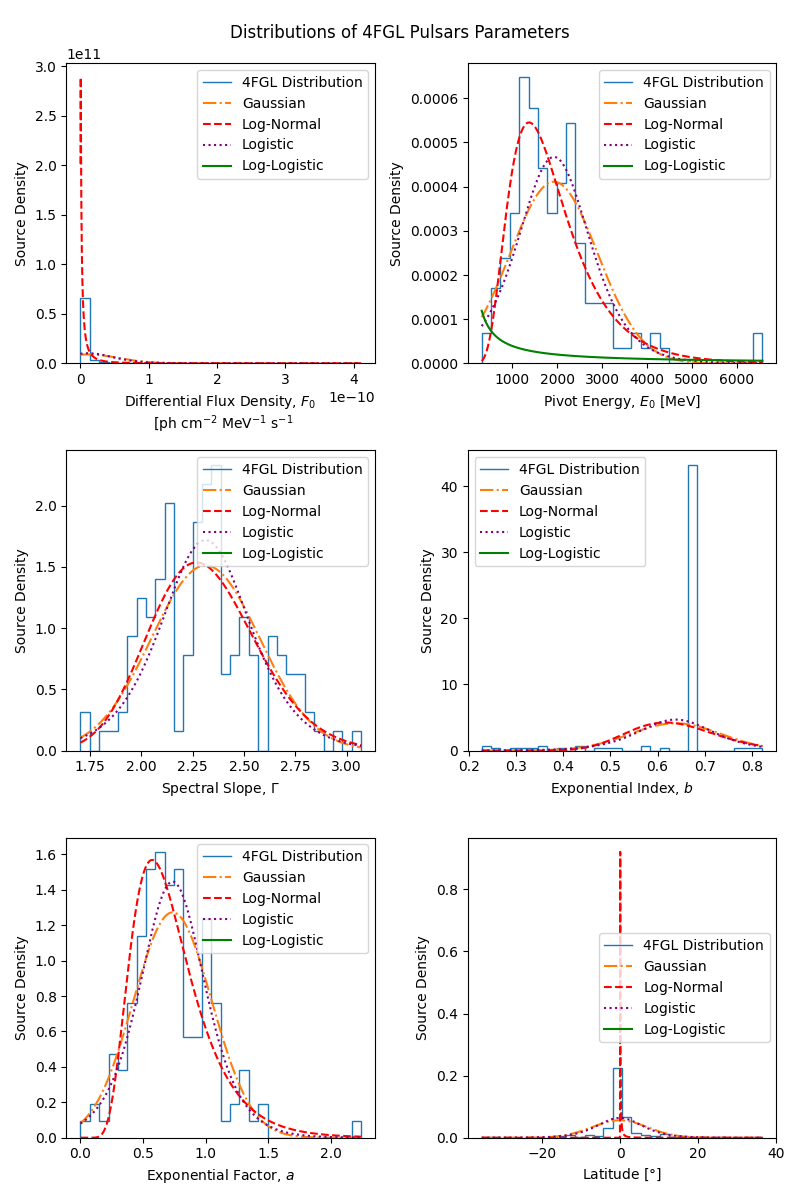
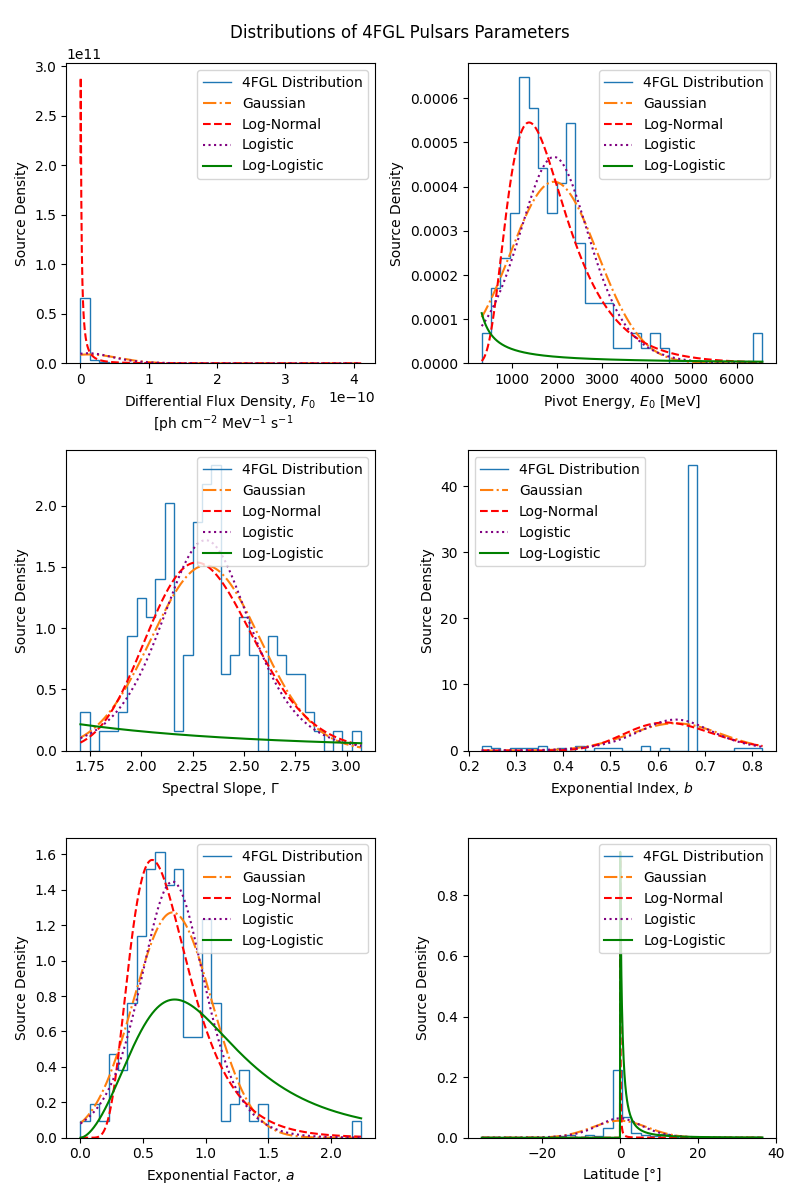
Working on spatial distribution plots - this will be used to debug the pulsar generation function (very important for the next stage of the project).

diff --git a/data_simulation/create_mock_catalog.py b/data_simulation/create_mock_catalog.py
@@ -35,35 +35,14 @@ from sklearn.metrics import root_mean_squared_error
 # Relative imports
 from analysis.goodness_of_fit import chi_squared_test, kolmogorov_smirnov_test
 from analysis.visualisation import (plot_agn_luminosity_function, plot_correlation_matrices,
-                                    plot_parameter_distributions, plot_parameter_relationships)
+                                    plot_parameter_distributions, plot_parameter_relationships,
+                                    plot_spatial_distribution)
 from read_write_functions import catalog_data_preparation
-from source_generation.agn_generator import agn_generation, generate_mock_agn_catalog
-from source_generation.agn_spectral_parameters import energy_flux_agn, agn_flux_density, agn_spectral_slope
+from source_generation.agn_generator import generate_mock_agn_catalog
 from source_generation.pulsar_spectral_parameters import energy_flux_pulsar
 from utils import split_normal
 
 # VISUALISATIONS
-
-
-# IN PROCESS OF MOVING INTO SEPARATE FILE
-def spatial_visualisations(galactic_longitudes, galactic_latitudes, num_sources, source_type):
-
-    xs, ys = [], []
-
-    for k in range(num_sources):
-
-        ra_dec = SkyCoord(l=galactic_longitudes[k] * u.rad, b=galactic_latitudes[k] * u.rad,
-                          frame='galactic').transform_to('icrs')
-
-        xs.append(ra_dec.ra.to_value(u.degree))
-        ys.append(ra_dec.dec.to_value(u.degree))
-
-    fig, ax = plt.subplots(figsize=(8, 4.2), subplot_kw=dict(projection="aitoff"))
-    ax.set_title("Distribution of Simulated " + source_type + " on the Sky", pad=20)
-    ax.grid(True)
-    ax.scatter(xs, ys, marker='o', s=2, alpha=0.3)
-    fig.subplots_adjust(top=0.95, bottom=0.0)
-    plt.show()
 
 
 def normal_func(x, mean, sigma):
@@ -960,6 +939,25 @@ def analysis(agn_rows, pulsar_rows, directory="./plots/analysis"):
     plot_correlation_matrices(pulsars, source_type="Pulsar", directory=directory)
 
 
+def verification(simulated_agns, simulated_pulsars):
+
+    # Verify simulated data realism
+
+    # SPATIAL DISTRIBUTION
+
+    # Plot simulated AGN spatial distribution
+    plot_spatial_distribution(simulated_agns[:, 5], simulated_agns[:, 6], source_type='AGN',
+                              directory="./plots/analysis")
+
+    # Plot simulated pulsar spatial distributions
+    plot_spatial_distribution(simulated_pulsars[:, 6], simulated_pulsars[:, 7], source_type='Pulsar',
+                              directory="./plots/analysis")
+
+
+
+
+
+
 def num_sources_to_generate(energy_fluxes_4fgl, detection_threshold):
 
     # THIS DETERMINES THE LUMINOSITY FUNCTION OF MOCK CATALOG - NOT FINISHED YET
@@ -995,7 +993,7 @@ agn_rows, pulsar_rows, source_detection_threshold, fluxes_4fgl = catalog_data_pr
 
 # Analyse parameters, their distributions, and their correlations
 
-analysis(agn_rows, pulsar_rows)
+# analysis(agn_rows, pulsar_rows)
 
 # fitting_agn_pivot_energy_flux_density_relation(agn_rows.copy())
 
@@ -1003,17 +1001,15 @@ analysis(agn_rows, pulsar_rows)
 
 # Generate simulated AGN sources
 
-# agns = generate_mock_agn_catalog(agn_statistics(agn_rows.copy()), num_agns=100, extra=30)
-
-# agns = generate_mock_agn_catalog(agn_rows.copy(), num_agns=100, extra=30)
-
-# agns = generate_mock_agn_catalog(agn_rows.copy(), num_agns=300, detection_threshold=source_detection_threshold)
-
-# print(agns[0])
+agns = generate_mock_agn_catalog(agn_rows.copy(), num_agns=300, detection_threshold=source_detection_threshold)
 
 # Generate simulated pulsar sources
 
-# pulsars = generate_mock_pulsar_catalog(pulsar_statistics(pulsar_rows.copy()), 10, extra=5)
+pulsars = generate_mock_pulsar_catalog(pulsar_statistics(pulsar_rows.copy()), 10, extra=5)
+
+
+# Verify realism and correctness of generated gamma-ray sources
+verification(agns, pulsars)
 
 # print(pulsars[0])
 

diff --git a/data_simulation/analysis/visualisation.py b/data_simulation/analysis/visualisation.py
@@ -1,4 +1,6 @@
+from astropy.coordinates import SkyCoord
 from astropy.table import QTable
+from astropy import units as u
 from itertools import combinations, product
 import matplotlib.pyplot as plt
 import numpy as np
@@ -134,9 +136,7 @@ def plot_parameter_distributions(sources, source_type: str, directory: str):
         mean, sigma = np.mean(values), np.std(values, ddof=1)
         scale, s = log_normal_parameter(values)
         logistic_scale = sigma * (np.sqrt(3) / np.pi)
-        log_logistic_scale = np.log(np.std(values, ddof=1) * (np.sqrt(3) / np.pi))
-
-        # np.std(np.log(values), ddof=1) * (np.sqrt(3) / np.pi)
+        log_logistic_scale = np.std(np.log(values), ddof=1) * (np.sqrt(3) / np.pi)
 
         # Plot Gaussian using mean and standard deviation of data
         x_values = np.linspace(np.min(values), np.max(values), 1000)
@@ -152,8 +152,8 @@ def plot_parameter_distributions(sources, source_type: str, directory: str):
                      linestyle=":")
 
         # Plot log-logistic distribution using mean and standard deviation of data (I noted similarity of shapes)
-        subplot.plot(x_values, fisk.pdf(x_values, scale=np.exp(np.mean(np.log(x_values))), c=1 / log_logistic_scale), color='green',
-                     label='Log-Logistic')
+        subplot.plot(x_values, fisk.pdf(x_values, scale=np.exp(np.mean(np.log(x_values))), c=1 / log_logistic_scale),
+                     color='green', label='Log-Logistic')
 
         subplot.set_xlabel(axis_labels[values.name])
 
@@ -246,6 +246,37 @@ def plot_parameter_relationships(sources, source_type: str, directory: str):
     fig.savefig(directory + "/{}_parameter_relationships.png".format(source_type.lower()))
     fig2.savefig(directory + "/{}_logarithmic_parameter_relationships.png".format(source_type.lower()))
 
+
+def plot_spatial_distribution(galactic_longitudes, galactic_latitudes, source_type: str, directory: str):
+
+    # N.B. longitudes and latitudes should be passed to this function in radians (not in degrees)
+
+    # CALCULATE RA AND DEC
+
+    xs, ys = [], []
+
+    for k in range(galactic_latitudes.shape[0]):
+
+        ra_dec = SkyCoord(l=galactic_longitudes[k] * u.rad, b=galactic_latitudes[k] * u.rad,
+                          frame='galactic').transform_to('icrs')
+
+        xs.append(ra_dec.ra.to_value(u.degree))
+        ys.append(ra_dec.dec.to_value(u.degree))
+
+    # CREATE FIGURE
+
+    fig, ax = plt.subplots(figsize=(8, 4.2), subplot_kw=dict(projection="aitoff"))
+
+    # Plot
+    ax.scatter(xs, ys, marker='o', s=2, alpha=0.5)
+
+    # FORMATTING
+
+    ax.set_title("Spatial Distribution of Simulated " + source_type + " on the Sky", pad=20)
+    ax.grid(True)
+    fig.subplots_adjust(top=0.95, bottom=0.0)
+
+    fig.savefig(directory + "/simulated_{}_spatial_distributions.png".format(source_type.lower()))
 
 # REFERENCES
 

diff --git a/data_simulation/source_generation/agn_generator.py b/data_simulation/source_generation/agn_generator.py
@@ -117,7 +117,8 @@ def generate_mock_agn_catalog(agn_data, num_agns=200, detection_threshold=np.flo
 
     parameters = np.vstack((parameters, faint_sources))
 
-    plot_agn_luminosity_function("/Volumes/T7/data/catalog/4FGL_DR4.fit", parameters[:, 4], directory="./plots/analysis")
+    plot_agn_luminosity_function("/Volumes/T7/data/catalog/4FGL_DR4.fit", parameters[:, 4],
+                                 directory="./plots/analysis")
 
     # CHECK SIMULATED FLUX DENSITIES AND PIVOT ENERGIES HAVE SAME CORRELATION AS IN 4FGL
     # plt.title('Simulated $F_0$ against $E_0$')
